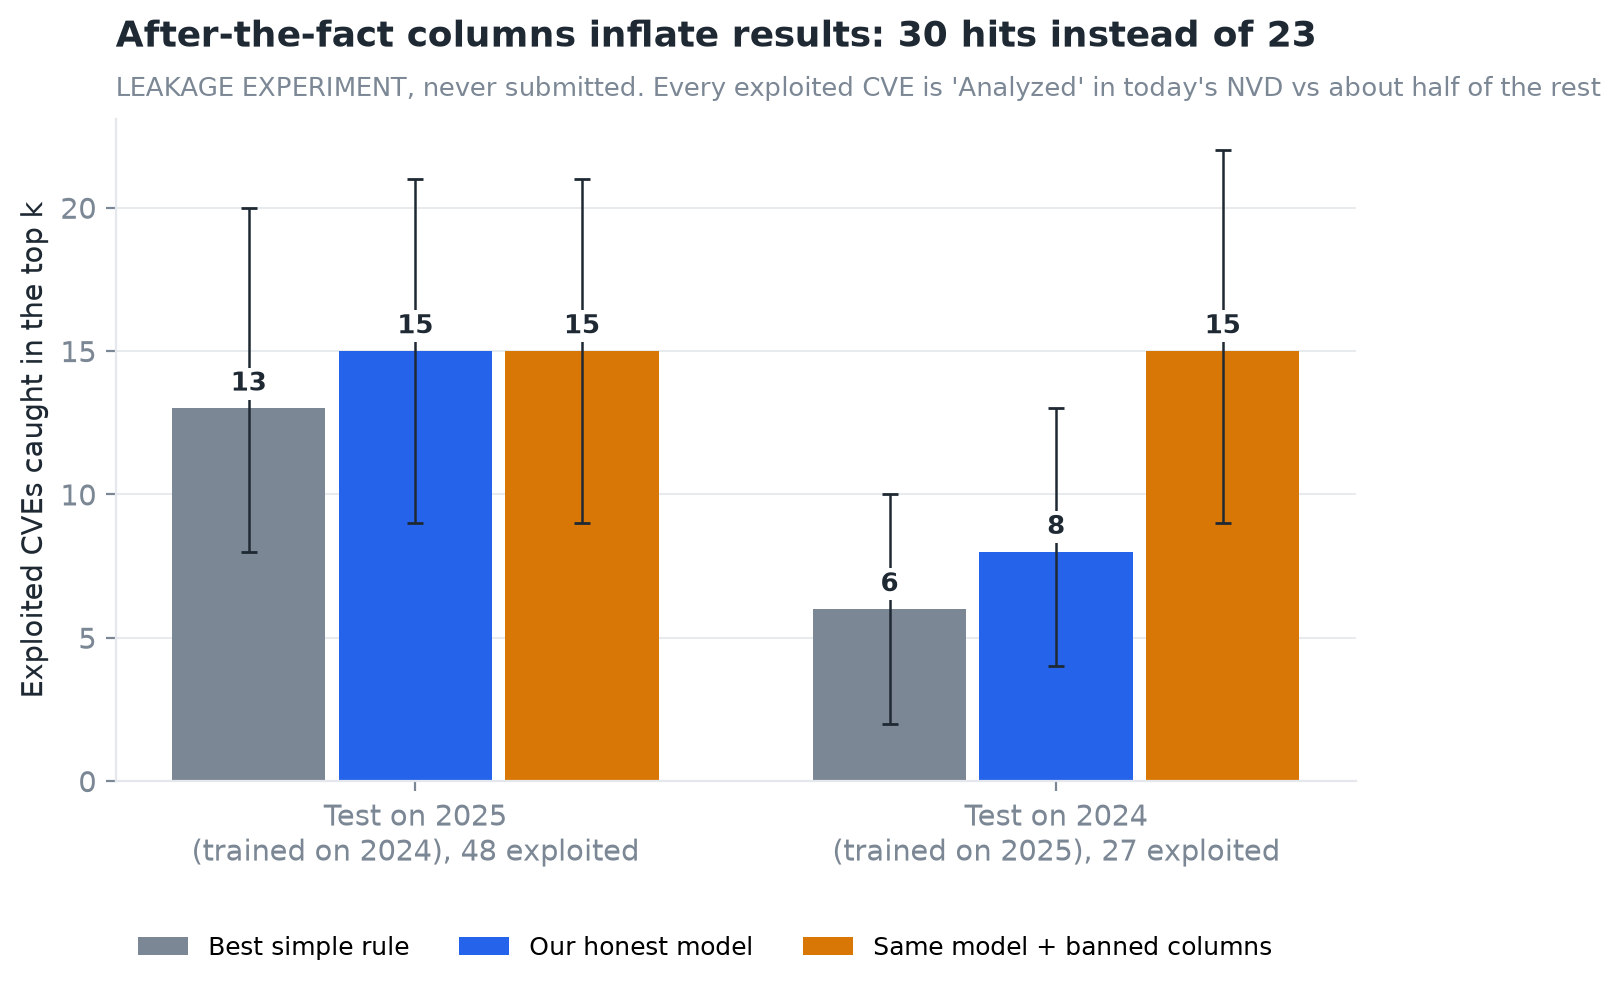
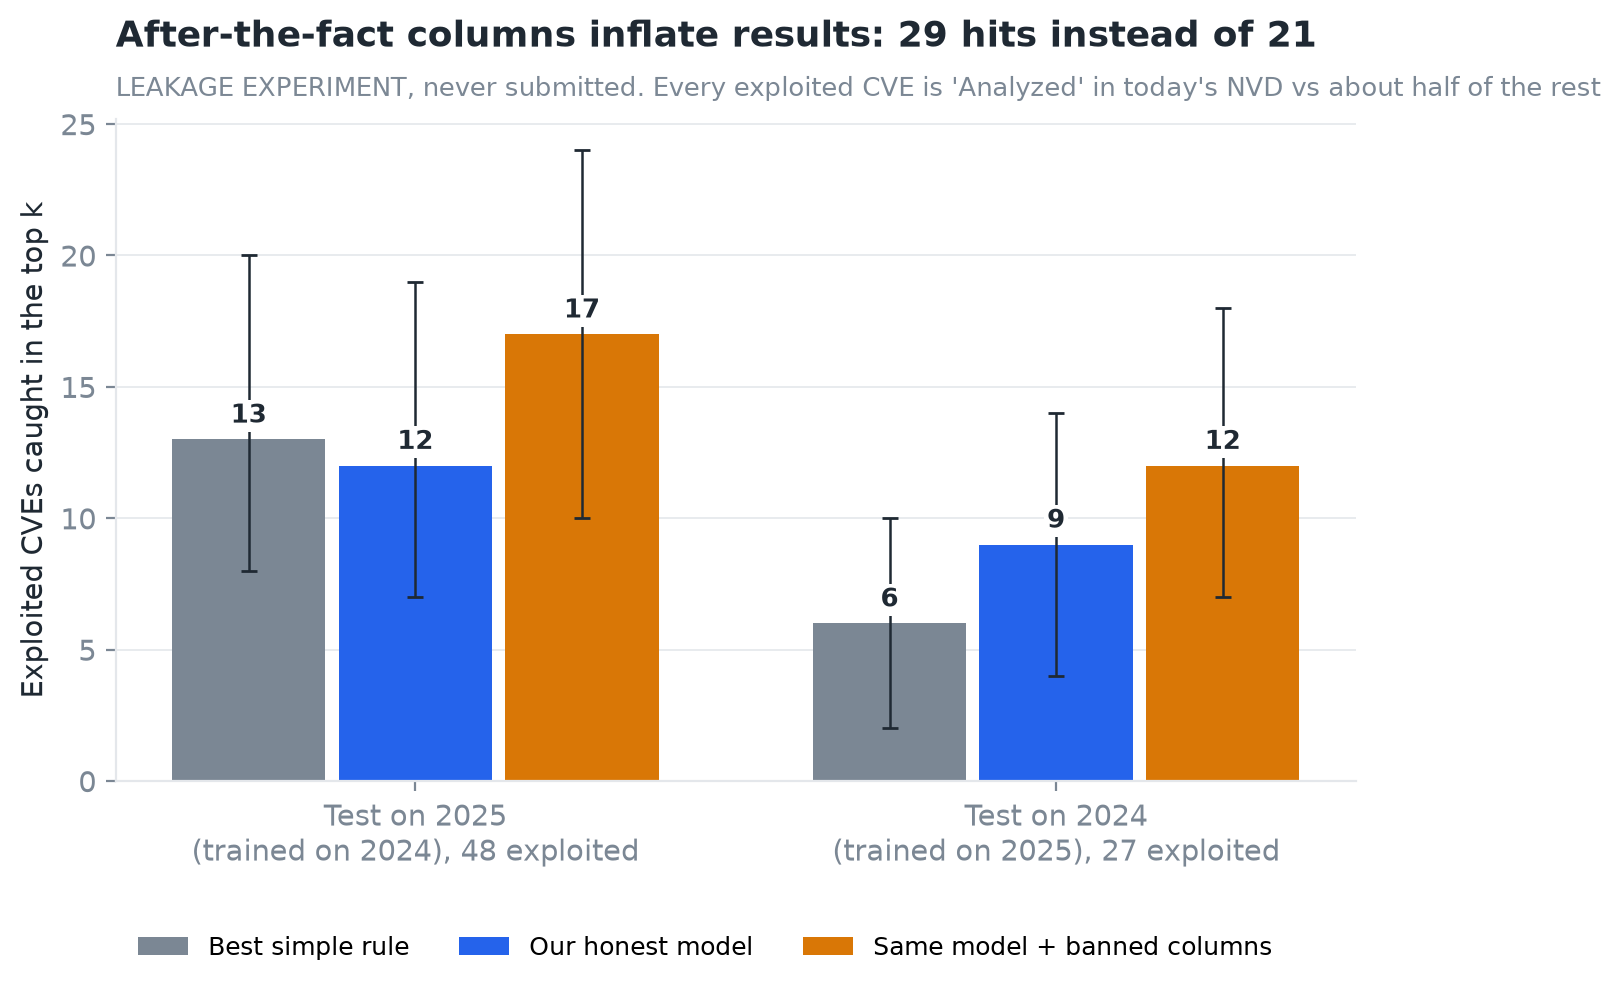
Align Person B outputs with v4 headline model: leakage on v4 bag, blind spots from v4_mechanism, honest ranges

diff --git a/src/b/charts.py b/src/b/charts.py
@@ -47,12 +47,14 @@ def baselines(plt):
                 names.append(label); hits.append(r[key]["hits"]); colors.append(GREYS[i])
                 lo.append(r[key]["hits"] - r[key]["ci90"][0]); hi.append(r[key]["ci90"][1] - r[key]["hits"])
         for _, m in models[models["replica"].astype(str) == y].iterrows():
-            names.append(m["name"].replace(" (", "\n(")); hits.append(m["hits"]); colors.append(ACCENT)
-            lo.append(m["hits"] - m["ci_lo"] if pd.notna(m["ci_lo"]) else 0)
-            hi.append(m["ci_hi"] - m["hits"] if pd.notna(m["ci_hi"]) else 0)
+            names.append(f"Ours\n({m['version'].split('_')[0]} model)"); hits.append(m["hits"]); colors.append(ACCENT)
+            lo.append(m["hits"] - m["ci_lo"] if pd.notna(m["ci_lo"]) else np.nan)
+            hi.append(m["ci_hi"] - m["hits"] if pd.notna(m["ci_hi"]) else np.nan)
         x = np.arange(len(names))
         ax.bar(x, hits, color=colors, width=0.62)
-        ax.errorbar(x, hits, yerr=[lo, hi], fmt="none", ecolor=INK, elinewidth=1, capsize=4)
+        ok = ~np.isnan(np.array(lo, dtype=float))
+        ax.errorbar(x[ok], np.array(hits)[ok], yerr=[np.array(lo)[ok], np.array(hi)[ok]], fmt="none", ecolor=INK,
+                    elinewidth=1, capsize=4)
         for xi, h in zip(x, hits):
             ax.text(xi, h + 0.3, f"{h}", ha="center", va="bottom", color=INK, fontsize=10, fontweight="bold",
                     bbox=dict(facecolor="white", edgecolor="none", pad=1))
@@ -61,11 +63,18 @@ def baselines(plt):
         ax.yaxis.get_major_locator().set_params(integer=True)
         ax.grid(axis="x", visible=False)
     axes[0].set_ylabel("Exploited CVEs caught in the top k")
-    title = (f"Our model beats the best simple rule in both practice years, by a small margin" if len(models) else
+    title = (f"Our model vs the best simple rule: {int(models['hits'].sum())} vs "
+             f"{sum(res[y]['baseline_exploit_epss']['hits'] for y in ('2024', '2025'))} exploited CVEs caught" if len(models) else
              "Best simple rule: public exploit, then EPSS. That's the bar to beat.")
     fig.suptitle(title, x=0.01, ha="left", fontsize=14, fontweight="bold", color=INK)
-    fig.text(0.01, -0.02, "Error bars: 90% bootstrap range. k scales 500 picks to each pool's size.",
-             color=MUTED, fontsize=8.5)
+    note = "Error bars: 90% bootstrap range for the simple rules. k scales 500 picks to each pool's size."
+    hp = OUT_DIR / "headline.json"
+    if hp.exists() and len(models):
+        h = json.loads(hp.read_text())
+        lo_, hi_ = h["diff_vs_baseline_cve_level_90"]
+        note += (f" Ours vs best rule, both years: {h['pooled_hits_bag'] - h['baseline_pooled_hits']:+d} "
+                 f"(90% range {lo_:+.0f} to {hi_:+.0f}), so the gain is within the noise.")
+    fig.text(0.01, -0.02, note, color=MUTED, fontsize=8.5)
     fig.tight_layout()
     _save(fig, "baselines.png")
     plt.close(fig)
@@ -183,27 +192,36 @@ def leakage(plt):
 
 
 def blind_spot_counts():
-    """Per test year: exploited CVEs split into flagged / blind-spot, and hits of the baseline vs v1/v2 LightGBM
-    in each group (from Person A's outputs/blindspot_positives.csv + outputs/v2_mechanism.csv)."""
-    bp, mech = OUT_DIR / "blindspot_positives.csv", OUT_DIR / "v2_mechanism.csv"
+    """Per test year: exploited CVEs split into flagged / blind-spot, and hits of the best simple rule vs our headline
+    model in each group. Uses Person A's outputs/blindspot_positives.csv and the newest mechanism file
+    (v4_mechanism.csv: gained/lost vs the baseline for the headline model; else v2_mechanism.csv for v1/v2 LightGBM)."""
+    bp = OUT_DIR / "blindspot_positives.csv"
     res = runlog.results()
-    if not (bp.exists() and mech.exists()) or res.empty:
+    if not bp.exists() or res.empty:
+        return None
+    if (OUT_DIR / "v4_mechanism.csv").exists():
+        m = pd.read_csv(OUT_DIR / "v4_mechanism.csv")
+        best = runlog.latest_model(res)
+        comps = {runlog.model_name(best): m}
+    elif (OUT_DIR / "v2_mechanism.csv").exists():
+        m = pd.read_csv(OUT_DIR / "v2_mechanism.csv")
+        comps = {runlog.model_name(v): m[m["comparison"] == f"{v}_vs_baseline"] for v in ("v1_lgbm", "v2_lgbm")}
+    else:
         return None
     blind = pd.read_csv(bp).groupby("replica").size()
-    m = pd.read_csv(mech)
     rows = []
     for y in (2024, 2025):
         r = res[res["test_year"] == y].set_index("version")["hits"]
-        total = {"blind-spot": int(blind.get(y, 0))}
         pos = int(pd.read_parquet(OUT_DIR / f"replica_{y}.parquet", columns=["label"])["label"].sum())
+        total = {"blind-spot": int(blind.get(y, 0))}
         total["flagged"] = pos - total["blind-spot"]
-        base_blind = 0  # by definition the exploit-then-EPSS top k contains no blind-spot CVE
         for grp in ("flagged", "blind-spot"):
-            base = int(r.get("baseline_exploit_epss", 0)) - base_blind if grp == "flagged" else base_blind
+            # by definition the exploit-then-EPSS top k contains no blind-spot CVE
+            base = int(r.get("baseline_exploit_epss", 0)) if grp == "flagged" else 0
             row = {"year": y, "group": grp, "exploited": total[grp], "Public exploit, then EPSS": base}
-            for v in ("v1_lgbm", "v2_lgbm"):
-                g = m[(m["test_replica"] == y) & (m["comparison"] == f"{v}_vs_baseline") & (m["group"] == grp)]
-                row[runlog.model_name(v)] = base + int((g["kind"] == "gained").sum()) - int((g["kind"] == "lost").sum())
+            for name, mm in comps.items():
+                g = mm[(mm["test_replica"] == y) & (mm["group"] == grp)]
+                row[name] = base + int((g["kind"] == "gained").sum()) - int((g["kind"] == "lost").sum())
             rows.append(row)
     return pd.DataFrame(rows)
 
@@ -215,8 +233,8 @@ def blindspots(plt):
         return
     d.to_csv(OUT_DIR / "b_blindspot_counts.csv", index=False)
     fig, axes = plt.subplots(1, 2, figsize=(10, 4.4), sharey=True)
-    series = [("Public exploit, then EPSS", GREYS[1]), (runlog.model_name("v1_lgbm"), ACCENT_LIGHT),
-              (runlog.model_name("v2_lgbm"), ACCENT)]
+    models = [c for c in d.columns if c.startswith("Ours")]
+    series = [("Public exploit, then EPSS", GREYS[1])] + [(c, ACCENT if c == models[-1] else ACCENT_LIGHT) for c in models]
     for ax, y in zip(axes, (2025, 2024)):
         g = d[d["year"] == y].set_index("group").loc[["flagged", "blind-spot"]]
         x = np.arange(2)
@@ -235,8 +253,8 @@ def blindspots(plt):
     axes[0].set_ylabel("Exploited CVEs")
     tot_b = int(d[d["group"] == "blind-spot"]["exploited"].sum())
     tot = int(d["exploited"].sum())
-    v2b = int(d[d["group"] == "blind-spot"][runlog.model_name("v2_lgbm")].sum())
-    fig.suptitle(f"{tot_b} of {tot} exploited CVEs were blind spots. Simple rules caught 0; our model caught {v2b}",
+    v2b = int(d[d["group"] == "blind-spot"][models[-1]].sum())
+    fig.suptitle(f"{tot_b} of {tot} exploited CVEs were blind spots: simple rules caught 0, our model {v2b}",
                  x=0.01, ha="left", fontsize=14, fontweight="bold", color=INK)
     handles, labels = axes[0].get_legend_handles_labels()
     fig.legend(handles, labels, loc="lower left", ncols=4, fontsize=9, bbox_to_anchor=(0.01, -0.06), frameon=False)

diff --git a/src/b/leakage.py b/src/b/leakage.py
@@ -3,8 +3,8 @@
 Run:  python -m src.b.leakage
 
 Question: how much better would a model LOOK if it used columns that are only filled in after the
-fact (CONTRACT.md "BANNED")? Same data, same model and same parameters as Person A's v2 LightGBM;
-the only difference is the extra banned columns:
+fact (CONTRACT.md "BANNED")? Same data, features, parameter rule and 20-seed rank-averaged bag as Person A's
+v4 headline model (src/models/train_v4.py); the only difference is the extra banned columns:
   nvd_status (one-hot), n_affected_cpes, n_references, blank-vs-filled CVSS 3 / CVSS 4 / CWE
   indicators, NVD-sourced CVSS 3 score (cvss3_source == nvd@nist.gov), and reference-link features
   from references.csv (refs tagged "Exploit", refs to exploit hosting sites).
@@ -19,13 +19,13 @@ import numpy as np
 import pandas as pd
 
 from src.common.paths import DATA_DIR, OUT_DIR
-from src.common.schema import TEXT_FEATURES, is_banned
+from src.common.schema import ALLOWED_FEATURES, PSI_REPLACED, is_banned
+from src.features import drift_fix as dfx
 from src.models import train_v1 as v1
 from src.models.train_v2 import load_with_text
+from src.models.train_v4 import BAG_SEEDS, bag
 
-# Same parameters as the v2 LightGBM forward run (outputs/runlog.csv, v2_lgbm train2024_test2025); not tuned here.
-PARAMS = {"num_leaves": 4, "min_child_samples": 100, "n_estimators": 150, "reg_lambda": 1, "scale_pos_weight": 10}
-HONEST = list(v1.FEATURES) + TEXT_FEATURES
+HONEST = list(ALLOWED_FEATURES)  # the v4 set: no raw EPSS, drift-prone features as within-pool ranks
 EXPLOIT_HOSTS = r"exploit-db\.com|packetstormsecurity|github\.com|gist\.github|seclists\.org|rapid7\.com"
 
 
@@ -66,21 +66,23 @@ def main(out_dir=OUT_DIR, data_dir=DATA_DIR):
     for y in (2024, 2025):
         ids = data[y]["meta"]["cve_id"]
         b = banned_columns(ids, data_dir).set_index("cve_id").reindex(ids).reset_index(drop=True)
-        data[y]["XL"] = pd.concat([data[y]["X2"].reset_index(drop=True), b], axis=1)
+        x4 = dfx.to_v4(data[y]["X2"], PSI_REPLACED)[HONEST].reset_index(drop=True)
+        data[y]["XL"] = pd.concat([x4, b], axis=1)
     leaky = HONEST + [c for c in data[2024]["XL"].columns if c.startswith("leak_")]
-    assert all(is_banned(c.replace("leak_", "")) or "nvd_status" in c or "refs" in c
-               for c in leaky if c.startswith("leak_")), "every extra column should be a banned one"
     assert not any(c.startswith("leak_") for c in HONEST)
 
     rows, imps = [], []
     for name, tr, te, note in v1.DIRECTIONS:
         Xtr, ytr, Xte = data[tr]["XL"], data[tr]["y"], data[te]["XL"]
+        # Person A's pre-set rule: params chosen by pooled leave-one-month-out AP on the TRAINING replica (v4 features),
+        # reused unchanged for the leaky model so the only difference is the extra columns.
+        params, _, _ = v1.select_lgbm(Xtr[HONEST], ytr, data[tr]["groups"], HONEST, f"v4 train {tr}")
         scores = {}
         for label, feats in (("honest", HONEST), ("leaky", leaky)):
-            m = v1.lgbm_model(PARAMS, feats).fit(Xtr[feats], ytr)
-            scores[label] = m.predict_proba(Xte[feats])[:, 1]
+            models = [v1.lgbm_model(params, feats, seed=s).fit(Xtr[feats], ytr) for s in BAG_SEEDS]
+            scores[label] = bag([m.predict_proba(Xte[feats])[:, 1] for m in models])
             if label == "leaky":
-                g = pd.Series(m.booster_.feature_importance("gain"), index=feats)
+                g = pd.Series(np.mean([m.booster_.feature_importance("gain") for m in models], axis=0), index=feats)
                 imps.append((g / g.sum()).rename(name))
         res, _, names, k = v1.eval_frame(data[te]["meta"], scores)
         for n in names:
@@ -106,7 +108,7 @@ def write_report(out, imp, out_dir):
     leak_share = imp.loc[[c for c in imp.index if c.startswith("leak_")], "mean"].sum()
     lines = [
         "# LEAKAGE EXPERIMENT (issue #8). Not a submission model.", "",
-        "Same data, model and parameters as the v2 LightGBM; the leaky model also gets banned "
+        "Same data, v4 features, parameter rule and 20-seed bag as the v4 headline model; the leaky model also gets banned "
         "after-the-fact columns (NVD status, CPE/reference counts, blank-vs-filled CVSS/CWE, NVD CVSS, "
         "exploit-tagged reference links). Run: `python -m src.b.leakage`.", "",
         "## In plain words",

diff --git a/src/b/runlog.py b/src/b/runlog.py
@@ -17,17 +17,18 @@ NICE = {"baseline_cvss": "Highest CVSS", "baseline_epss": "Highest EPSS",
 def model_name(version: str) -> str:
     if version in NICE:
         return NICE[version]
-    m = re.match(r"v(\d+)_(lgbm|logreg)", version)
+    m = re.match(r"v(\d+)_(lgbm|logreg|bag)", version)
     if not m:
         return version
+    kind = {"lgbm": "LightGBM", "logreg": "logistic", "bag": "LightGBM bag"}[m[2]]
     text = " + text" if int(m[1]) >= 2 else ", no text"
-    return f"Ours v{m[1]} ({'LightGBM' if m[2] == 'lgbm' else 'logistic'}{text})"
+    return f"Ours v{m[1]} ({kind}{text})"
 
 
 def results(path=OUT_DIR / "runlog.csv") -> pd.DataFrame:
     """Columns: version, name, is_baseline, test_year (int), k, hits, ci_lo, ci_hi, timestamp."""
     if not path.exists():
-        return pd.DataFrame(columns=["version", "name", "is_baseline", "test_year", "k", "hits", "ci_lo", "ci_hi"])
+        return pd.DataFrame(columns=["version", "name", "is_baseline", "headline", "test_year", "k", "hits", "ci_lo", "ci_hi", "timestamp"])
     rl = pd.read_csv(path)
     rep = rl["replica"].astype(str)
     keep = rep.str.fullmatch(r"\d{4}") | rep.str.fullmatch(r"train\d{4}_test\d{4}")
@@ -37,13 +38,18 @@ def results(path=OUT_DIR / "runlog.csv") -> pd.DataFrame:
     ci = rl["notes"].astype(str).str.extract(r"boot90=\[(\d+)\s*[-,]\s*(\d+)\]").astype(float)
     rl["ci_lo"], rl["ci_hi"] = ci[0], ci[1]
     rl["name"] = rl["version"].map(model_name)
+    rl["headline"] = rl["notes"].astype(str).str.contains("headline model", case=False)
     rl = rl.sort_values("timestamp").drop_duplicates(["version", "test_year"], keep="last")
-    return rl[["version", "name", "is_baseline", "test_year", "k", "hits", "ci_lo", "ci_hi", "timestamp"]]
+    return rl[["version", "name", "is_baseline", "headline", "test_year", "k", "hits", "ci_lo", "ci_hi", "timestamp"]]
 
 
 def latest_model(res: pd.DataFrame) -> str | None:
-    """Newest model version with results for both test years (prefers LightGBM on ties)."""
+    """The model Person A marks as 'headline model' in the runlog notes; otherwise the newest model version with
+    results for both test years (prefers LightGBM on ties)."""
     m = res[~res["is_baseline"]]
+    if "headline" in m and m["headline"].any():
+        h = m[m["headline"]].sort_values("timestamp")
+        return h.iloc[-1]["version"]
     both = m.groupby("version")["test_year"].nunique()
     m = m[m["version"].isin(both[both == 2].index)]
     if m.empty:

diff --git a/app/dashboard.py b/app/dashboard.py
@@ -105,7 +105,7 @@ if blind is not None:
     c[2].metric("Blind spots", help="Exploited CVEs with no public exploit code and low EPSS", value=
                 f"{int(b['exploited'].sum())} of {int(blind['exploited'].sum())}")
     c[3].metric("Blind spots caught", help="Best simple rule → our model", value=
-                f"0 → {int(b[runlog.model_name('v2_lgbm')].sum())}")
+                f"0 → {int(b[[c for c in blind.columns if c.startswith('Ours')][-1]].sum())}")
 
 tabs = st.tabs(["Blind spots", "Top 500", "vs simple rules", "Is 2026 different?", "Leakage experiment"])
 
@@ -116,9 +116,10 @@ with tabs[0]:
     else:
         st.markdown("Most exploited CVEs never had public exploit code and had a low EPSS score when they "
                     "were published, so rules built on those signals **cannot see them at all**. Our text "
-                    "features (IBM Granite + description tags) are the only signal that reaches some of them.")
-        series = [("Public exploit, then EPSS", GREYS[1]), (runlog.model_name("v1_lgbm"), ACCENT_LIGHT),
-                  (runlog.model_name("v2_lgbm"), ACCENT)]
+                    "features (IBM Granite + description tags) are one of the few signals that reach any of them.")
+        models = [c for c in blind.columns if c.startswith("Ours")]
+        series = [("Public exploit, then EPSS", GREYS[1])] + [(c, ACCENT if c == models[-1] else ACCENT_LIGHT)
+                                                              for c in models]
         cols = st.columns(2)
         for col, y in zip(cols, (2025, 2024)):
             g = blind[blind["year"] == y].set_index("group").loc[["flagged", "blind-spot"]]
@@ -189,7 +190,7 @@ with tabs[2]:
             bars(fig, runlog.model_name(v), r["test_year"].astype(str), r["hits"].to_numpy(), color,
                  r["ci_lo"].to_numpy(), r["ci_hi"].to_numpy())
         fig.update_yaxes(range=[0, res["ci_hi"].max() * 1.15 + 1])
-        title = ("Our model beats the best simple rule in both test years, by a small margin" if best_model
+        title = ("Our model vs the best simple rule: a small gain overall, within the noise" if best_model
                  else "The bar to beat")
         st.plotly_chart(style(fig, title, "Test year (model trained on the other year)",
                               "Exploited CVEs caught in the top k"), use_container_width=True, theme="streamlit")
